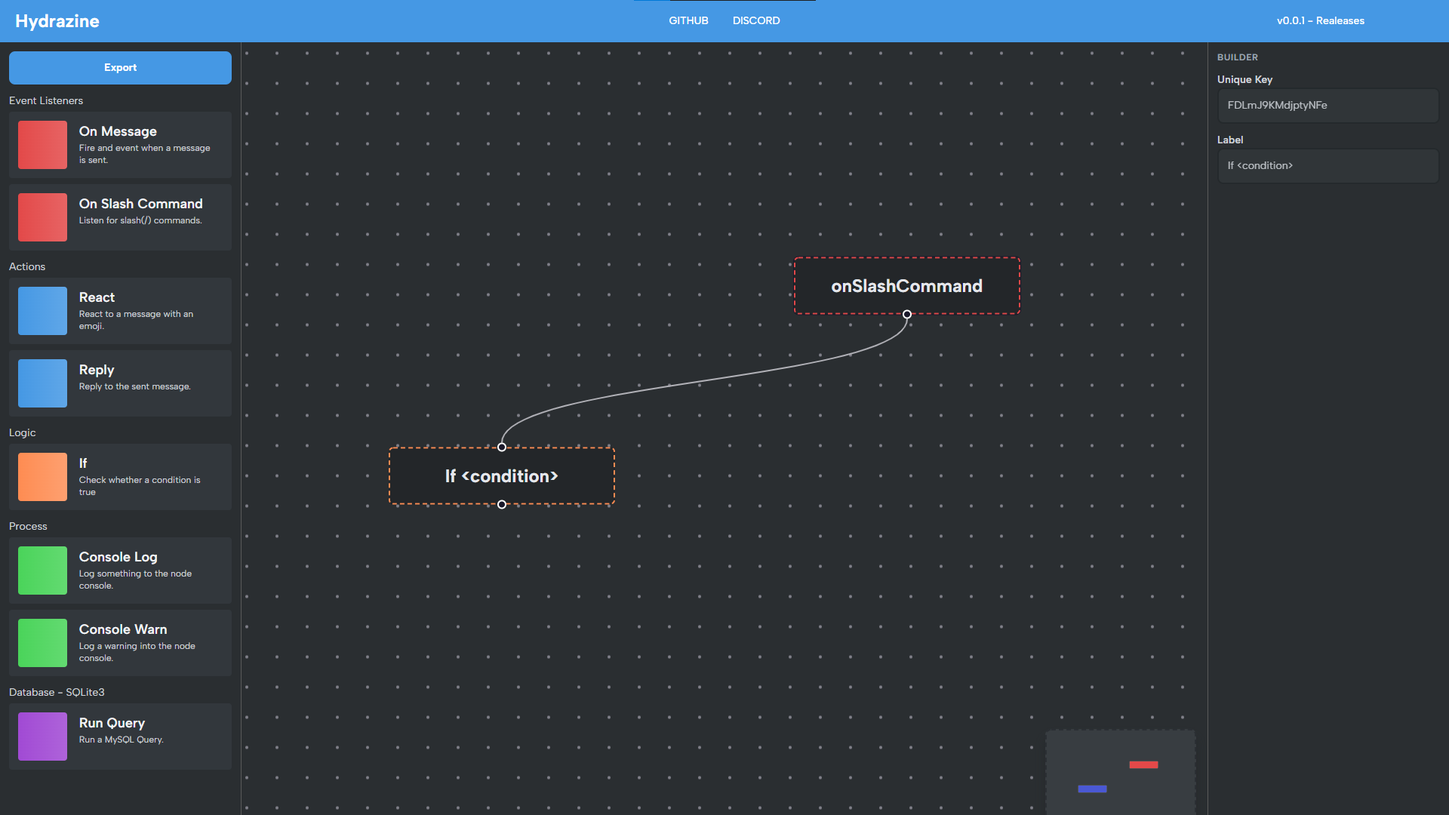
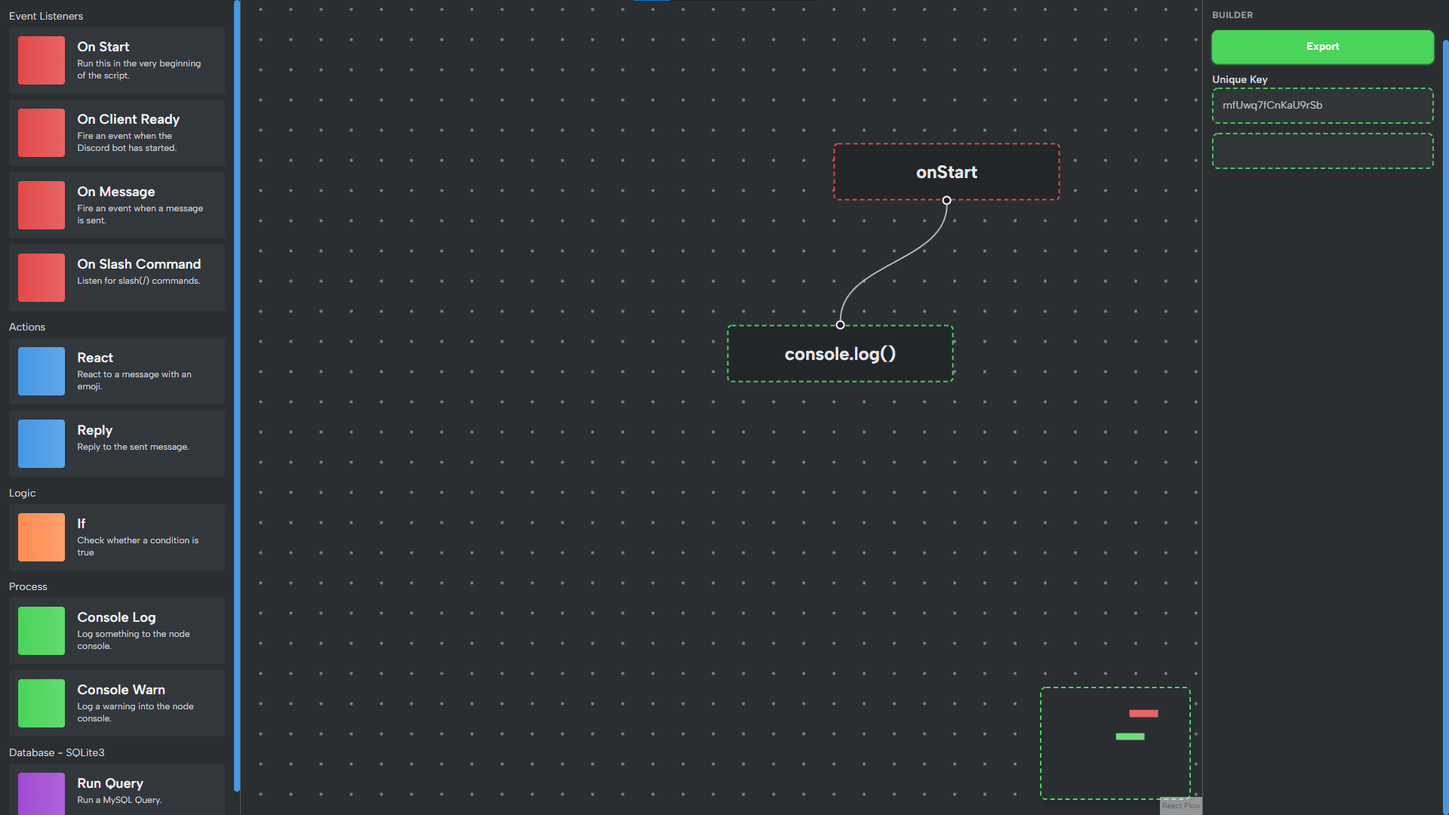
update

diff --git a/src/scss/tailwinds.scss b/src/scss/tailwinds.scss
@@ -1,1 +1,1 @@
-/*! tailwindcss v3.1.6 | MIT License | https://tailwindcss.com*/*,:after,:before{border:0 solid #e5e7eb;box-sizing:border-box}:after,:before{--tw-content:""}html{-webkit-text-size-adjust:100%;font-family:ui-sans-serif,system-ui,-apple-system,BlinkMacSystemFont,Segoe UI,Roboto,Helvetica Neue,Arial,Noto Sans,sans-serif,Apple Color Emoji,Segoe UI Emoji,Segoe UI Symbol,Noto Color Emoji;line-height:1.5;tab-size:4}body{line-height:inherit;margin:0}hr{border-top-width:1px;color:inherit;height:0}abbr:where([title]){-webkit-text-decoration:underline dotted;text-decoration:underline dotted}h1,h2,h3,h4,h5,h6{font-size:inherit;font-weight:inherit}a{color:inherit;text-decoration:inherit}b,strong{font-weight:bolder}code,kbd,pre,samp{font-family:ui-monospace,SFMono-Regular,Menlo,Monaco,Consolas,Liberation Mono,Courier New,monospace;font-size:1em}small{font-size:80%}sub,sup{font-size:75%;line-height:0;position:relative;vertical-align:initial}sub{bottom:-.25em}sup{top:-.5em}table{border-collapse:collapse;border-color:inherit;text-indent:0}button,input,optgroup,select,textarea{color:inherit;font-family:inherit;font-size:100%;font-weight:inherit;line-height:inherit;margin:0;padding:0}button,select{text-transform:none}[type=button],[type=reset],[type=submit],button{-webkit-appearance:button;background-color:initial;background-image:none}:-moz-focusring{outline:auto}:-moz-ui-invalid{box-shadow:none}progress{vertical-align:initial}::-webkit-inner-spin-button,::-webkit-outer-spin-button{height:auto}[type=search]{-webkit-appearance:textfield;outline-offset:-2px}::-webkit-search-decoration{-webkit-appearance:none}::-webkit-file-upload-button{-webkit-appearance:button;font:inherit}summary{display:list-item}blockquote,dd,dl,figure,h1,h2,h3,h4,h5,h6,hr,p,pre{margin:0}fieldset{margin:0}fieldset,legend{padding:0}menu,ol,ul{list-style:none;margin:0;padding:0}textarea{resize:vertical}input::-webkit-input-placeholder,textarea::-webkit-input-placeholder{color:#9ca3af;opacity:1}input::placeholder,textarea::placeholder{color:#9ca3af;opacity:1}[role=button],button{cursor:pointer}:disabled{cursor:default}audio,canvas,embed,iframe,img,object,svg,video{display:block;vertical-align:middle}img,video{height:auto;max-width:100%}*,:after,:before{--tw-border-spacing-x:0;--tw-border-spacing-y:0;--tw-translate-x:0;--tw-translate-y:0;--tw-rotate:0;--tw-skew-x:0;--tw-skew-y:0;--tw-scale-x:1;--tw-scale-y:1;--tw-pan-x: ;--tw-pan-y: ;--tw-pinch-zoom: ;--tw-scroll-snap-strictness:proximity;--tw-ordinal: ;--tw-slashed-zero: ;--tw-numeric-figure: ;--tw-numeric-spacing: ;--tw-numeric-fraction: ;--tw-ring-inset: ;--tw-ring-offset-width:0px;--tw-ring-offset-color:#fff;--tw-ring-color:rgba(59,130,246,.5);--tw-ring-offset-shadow:0 0 #0000;--tw-ring-shadow:0 0 #0000;--tw-shadow:0 0 #0000;--tw-shadow-colored:0 0 #0000;--tw-blur: ;--tw-brightness: ;--tw-contrast: ;--tw-grayscale: ;--tw-hue-rotate: ;--tw-invert: ;--tw-saturate: ;--tw-sepia: ;--tw-drop-shadow: ;--tw-backdrop-blur: ;--tw-backdrop-brightness: ;--tw-backdrop-contrast: ;--tw-backdrop-grayscale: ;--tw-backdrop-hue-rotate: ;--tw-backdrop-invert: ;--tw-backdrop-opacity: ;--tw-backdrop-saturate: ;--tw-backdrop-sepia: }::-webkit-backdrop{--tw-border-spacing-x:0;--tw-border-spacing-y:0;--tw-translate-x:0;--tw-translate-y:0;--tw-rotate:0;--tw-skew-x:0;--tw-skew-y:0;--tw-scale-x:1;--tw-scale-y:1;--tw-pan-x: ;--tw-pan-y: ;--tw-pinch-zoom: ;--tw-scroll-snap-strictness:proximity;--tw-ordinal: ;--tw-slashed-zero: ;--tw-numeric-figure: ;--tw-numeric-spacing: ;--tw-numeric-fraction: ;--tw-ring-inset: ;--tw-ring-offset-width:0px;--tw-ring-offset-color:#fff;--tw-ring-color:rgba(59,130,246,.5);--tw-ring-offset-shadow:0 0 #0000;--tw-ring-shadow:0 0 #0000;--tw-shadow:0 0 #0000;--tw-shadow-colored:0 0 #0000;--tw-blur: ;--tw-brightness: ;--tw-contrast: ;--tw-grayscale: ;--tw-hue-rotate: ;--tw-invert: ;--tw-saturate: ;--tw-sepia: ;--tw-drop-shadow: ;--tw-backdrop-blur: ;--tw-backdrop-brightness: ;--tw-backdrop-contrast: ;--tw-backdrop-grayscale: ;--tw-backdrop-hue-rotate: ;--tw-backdrop-invert: ;--tw-backdrop-opacity: ;--tw-backdrop-saturate: ;--tw-backdrop-sepia: }::backdrop{--tw-border-spacing-x:0;--tw-border-spacing-y:0;--tw-translate-x:0;--tw-translate-y:0;--tw-rotate:0;--tw-skew-x:0;--tw-skew-y:0;--tw-scale-x:1;--tw-scale-y:1;--tw-pan-x: ;--tw-pan-y: ;--tw-pinch-zoom: ;--tw-scroll-snap-strictness:proximity;--tw-ordinal: ;--tw-slashed-zero: ;--tw-numeric-figure: ;--tw-numeric-spacing: ;--tw-numeric-fraction: ;--tw-ring-inset: ;--tw-ring-offset-width:0px;--tw-ring-offset-color:#fff;--tw-ring-color:rgba(59,130,246,.5);--tw-ring-offset-shadow:0 0 #0000;--tw-ring-shadow:0 0 #0000;--tw-shadow:0 0 #0000;--tw-shadow-colored:0 0 #0000;--tw-blur: ;--tw-brightness: ;--tw-contrast: ;--tw-grayscale: ;--tw-hue-rotate: ;--tw-invert: ;--tw-saturate: ;--tw-sepia: ;--tw-drop-shadow: ;--tw-backdrop-blur: ;--tw-backdrop-brightness: ;--tw-backdrop-contrast: ;--tw-backdrop-grayscale: ;--tw-backdrop-hue-rotate: ;--tw-backdrop-invert: ;--tw-backdrop-opacity: ;--tw-backdrop-saturate: ;--tw-backdrop-sepia: }.container{width:100%}.\!container{width:100%!important}@media (min-width:640px){.container{max-width:640px}.\!container{max-width:640px!important}}@media (min-width:768px){.container{max-width:768px}.\!container{max-width:768px!important}}@media (min-width:1024px){.container{max-width:1024px}.\!container{max-width:1024px!important}}@media (min-width:1280px){.container{max-width:1280px}.\!container{max-width:1280px!important}}@media (min-width:1536px){.container{max-width:1536px}.\!container{max-width:1536px!important}}.col-span-3{grid-column:span 3/span 3}.col-span-2{grid-column:span 2/span 2}.col-span-8{grid-column:span 8/span 8}.col-span-10{grid-column:span 10/span 10}.mb-1{margin-bottom:.25rem}.flex{display:flex}.grid{display:grid}.h-16{height:4rem}.h-screen{height:100vh}.w-full{width:100%}.cursor-pointer{cursor:pointer}.grid-cols-4{grid-template-columns:repeat(4,minmax(0,1fr))}.grid-cols-12{grid-template-columns:repeat(12,minmax(0,1fr))}.grid-cols-1{grid-template-columns:repeat(1,minmax(0,1fr))}.flex-wrap{flex-wrap:wrap}.items-center{align-items:center}.justify-center{justify-content:center}.gap-1{gap:.25rem}.space-x-8>:not([hidden])~:not([hidden]){--tw-space-x-reverse:0;margin-left:calc(2rem*(1 - var(--tw-space-x-reverse)));margin-right:calc(2rem*var(--tw-space-x-reverse))}.space-y-3>:not([hidden])~:not([hidden]){--tw-space-y-reverse:0;margin-bottom:calc(.75rem*var(--tw-space-y-reverse));margin-top:calc(.75rem*(1 - var(--tw-space-y-reverse)))}.space-y-2>:not([hidden])~:not([hidden]){--tw-space-y-reverse:0;margin-bottom:calc(.5rem*var(--tw-space-y-reverse));margin-top:calc(.5rem*(1 - var(--tw-space-y-reverse)))}.overflow-auto{overflow:auto}.rounded{border-radius:.25rem}.rounded-lg{border-radius:.5rem}.border{border-width:1px}.border-2{border-width:2px}.border-r{border-right-width:1px}.border-l{border-left-width:1px}.border-dashed{border-style:dashed}.border-shamrock{--tw-border-opacity:1;border-color:rgb(50 194 122/var(--tw-border-opacity))}.border-cinna{--tw-border-opacity:1;border-color:rgb(227 73 73/var(--tw-border-opacity))}.border-royal{--tw-border-opacity:1;border-color:rgb(254 140 82/var(--tw-border-opacity))}.border-picton{--tw-border-opacity:1;border-color:rgb(69 152 228/var(--tw-border-opacity))}.border-emerald{--tw-border-opacity:1;border-color:rgb(74 212 90/var(--tw-border-opacity))}.border-amethyst{--tw-border-opacity:1;border-color:rgb(161 74 212/var(--tw-border-opacity))}.border-scorpion{--tw-border-opacity:1;border-color:rgb(91 91 91/var(--tw-border-opacity))}.border-shark-700{--tw-border-opacity:1;border-color:rgb(28 31 33/var(--tw-border-opacity))}.bg-shark-600{--tw-bg-opacity:1;background-color:rgb(35 38 41/var(--tw-bg-opacity))}.bg-shark{--tw-bg-opacity:1;background-color:rgb(42 46 49/var(--tw-bg-opacity))}.bg-space{--tw-bg-opacity:1;background-color:rgb(50 55 60/var(--tw-bg-opacity))}.bg-picton{--tw-bg-opacity:1;background-color:rgb(69 152 228/var(--tw-bg-opacity))}.bg-shark-500{--tw-bg-opacity:1;background-color:rgb(42 46 49/var(--tw-bg-opacity))}.bg-shark-400{--tw-bg-opacity:1;background-color:rgb(49 54 57/var(--tw-bg-opacity))}.bg-shamrock{--tw-bg-opacity:1;background-color:rgb(50 194 122/var(--tw-bg-opacity))}.bg-cinna{--tw-bg-opacity:1;background-color:rgb(227 73 73/var(--tw-bg-opacity))}.bg-royal{--tw-bg-opacity:1;background-color:rgb(254 140 82/var(--tw-bg-opacity))}.bg-emerald{--tw-bg-opacity:1;background-color:rgb(74 212 90/var(--tw-bg-opacity))}.bg-amethyst{--tw-bg-opacity:1;background-color:rgb(161 74 212/var(--tw-bg-opacity))}.bg-gradient-to-r{background-image:linear-gradient(to right,var(--tw-gradient-stops))}.from-shamrock-500{--tw-gradient-from:#32c27a;--tw-gradient-to:rgba(50,194,122,0);--tw-gradient-stops:var(--tw-gradient-from),var(--tw-gradient-to)}.from-cinna-500{--tw-gradient-from:#e34949;--tw-gradient-to:rgba(227,73,73,0);--tw-gradient-stops:var(--tw-gradient-from),var(--tw-gradient-to)}.from-royal-500{--tw-gradient-from:#fe8c52;--tw-gradient-to:rgba(254,140,82,0);--tw-gradient-stops:var(--tw-gradient-from),var(--tw-gradient-to)}.from-picton-500{--tw-gradient-from:#4598e4;--tw-gradient-to:rgba(69,152,228,0);--tw-gradient-stops:var(--tw-gradient-from),var(--tw-gradient-to)}.from-emerald-500{--tw-gradient-from:#4ad45a;--tw-gradient-to:rgba(74,212,90,0);--tw-gradient-stops:var(--tw-gradient-from),var(--tw-gradient-to)}.from-amethyst-500{--tw-gradient-from:#a14ad4;--tw-gradient-to:rgba(161,74,212,0);--tw-gradient-stops:var(--tw-gradient-from),var(--tw-gradient-to)}.to-shamrock-300{--tw-gradient-to:#44cf89}.to-cinna-300{--tw-gradient-to:#e76464}.to-royal-300{--tw-gradient-to:#fea070}.to-picton-300{--tw-gradient-to:#60a7e8}.to-emerald-300{--tw-gradient-to:#63da71}.to-amethyst-300{--tw-gradient-to:#ae63da}.p-3{padding:.75rem}.px-3{padding-left:.75rem;padding-right:.75rem}.px-2{padding-left:.5rem;padding-right:.5rem}.text-center{text-align:center}.text-xs{font-size:.75rem;line-height:1rem}.text-sm{font-size:.875rem;line-height:1.25rem}.text-lg{font-size:1.125rem;line-height:1.75rem}.text-2xl{font-size:1.5rem;line-height:2rem}.font-bold{font-weight:700}.font-semibold{font-weight:600}.font-medium{font-weight:500}.uppercase{text-transform:uppercase}.tracking-wider{letter-spacing:.05em}.text-gray-200{--tw-text-opacity:1;color:rgb(229 231 235/var(--tw-text-opacity))}.text-gray-300{--tw-text-opacity:1;color:rgb(209 213 219/var(--tw-text-opacity))}.text-gray-100{--tw-text-opacity:1;color:rgb(243 244 246/var(--tw-text-opacity))}.text-foam-300,.text-white{--tw-text-opacity:1;color:rgb(255 255 255/var(--tw-text-opacity))}.text-gray-400{--tw-text-opacity:1;color:rgb(156 163 175/var(--tw-text-opacity))}.opacity-90{opacity:.9}.shadow-sm{--tw-shadow:0 1px 2px 0 rgba(0,0,0,.05);--tw-shadow-colored:0 1px 2px 0 var(--tw-shadow-color)}.shadow-lg,.shadow-sm{box-shadow:var(--tw-ring-offset-shadow,0 0 #0000),var(--tw-ring-shadow,0 0 #0000),var(--tw-shadow)}.shadow-lg{--tw-shadow:0 10px 15px -3px rgba(0,0,0,.1),0 4px 6px -4px rgba(0,0,0,.1);--tw-shadow-colored:0 10px 15px -3px var(--tw-shadow-color),0 4px 6px -4px var(--tw-shadow-color)}.shadow{--tw-shadow:0 1px 3px 0 rgba(0,0,0,.1),0 1px 2px -1px rgba(0,0,0,.1);--tw-shadow-colored:0 1px 3px 0 var(--tw-shadow-color),0 1px 2px -1px var(--tw-shadow-color);box-shadow:var(--tw-ring-offset-shadow,0 0 #0000),var(--tw-ring-shadow,0 0 #0000),var(--tw-shadow)}.shadow-shark-600{--tw-shadow-color:#232629;--tw-shadow:var(--tw-shadow-colored)}.shadow-picton,.shadow-picton-500{--tw-shadow-color:#4598e4;--tw-shadow:var(--tw-shadow-colored)}.shadow-shamrock{--tw-shadow-color:#32c27a;--tw-shadow:var(--tw-shadow-colored)}.shadow-cinna{--tw-shadow-color:#e34949;--tw-shadow:var(--tw-shadow-colored)}.shadow-royal{--tw-shadow-color:#fe8c52;--tw-shadow:var(--tw-shadow-colored)}.shadow-emerald{--tw-shadow-color:#4ad45a;--tw-shadow:var(--tw-shadow-colored)}.shadow-amethyst{--tw-shadow-color:#a14ad4;--tw-shadow:var(--tw-shadow-colored)}.duration-300{transition-duration:.3s}.hover\:scale-105:hover{--tw-scale-x:1.05;--tw-scale-y:1.05;-webkit-transform:translate(var(--tw-translate-x),var(--tw-translate-y)) rotate(var(--tw-rotate)) skewX(var(--tw-skew-x)) skewY(var(--tw-skew-y)) scaleX(var(--tw-scale-x)) scaleY(var(--tw-scale-y));transform:translate(var(--tw-translate-x),var(--tw-translate-y)) rotate(var(--tw-rotate)) skewX(var(--tw-skew-x)) skewY(var(--tw-skew-y)) scaleX(var(--tw-scale-x)) scaleY(var(--tw-scale-y))}
+/*! tailwindcss v3.1.6 | MIT License | https://tailwindcss.com*/*,:after,:before{border:0 solid #e5e7eb;box-sizing:border-box}:after,:before{--tw-content:""}html{-webkit-text-size-adjust:100%;font-family:ui-sans-serif,system-ui,-apple-system,BlinkMacSystemFont,Segoe UI,Roboto,Helvetica Neue,Arial,Noto Sans,sans-serif,Apple Color Emoji,Segoe UI Emoji,Segoe UI Symbol,Noto Color Emoji;line-height:1.5;tab-size:4}body{line-height:inherit;margin:0}hr{border-top-width:1px;color:inherit;height:0}abbr:where([title]){-webkit-text-decoration:underline dotted;text-decoration:underline dotted}h1,h2,h3,h4,h5,h6{font-size:inherit;font-weight:inherit}a{color:inherit;text-decoration:inherit}b,strong{font-weight:bolder}code,kbd,pre,samp{font-family:ui-monospace,SFMono-Regular,Menlo,Monaco,Consolas,Liberation Mono,Courier New,monospace;font-size:1em}small{font-size:80%}sub,sup{font-size:75%;line-height:0;position:relative;vertical-align:initial}sub{bottom:-.25em}sup{top:-.5em}table{border-collapse:collapse;border-color:inherit;text-indent:0}button,input,optgroup,select,textarea{color:inherit;font-family:inherit;font-size:100%;font-weight:inherit;line-height:inherit;margin:0;padding:0}button,select{text-transform:none}[type=button],[type=reset],[type=submit],button{-webkit-appearance:button;background-color:initial;background-image:none}:-moz-focusring{outline:auto}:-moz-ui-invalid{box-shadow:none}progress{vertical-align:initial}::-webkit-inner-spin-button,::-webkit-outer-spin-button{height:auto}[type=search]{-webkit-appearance:textfield;outline-offset:-2px}::-webkit-search-decoration{-webkit-appearance:none}::-webkit-file-upload-button{-webkit-appearance:button;font:inherit}summary{display:list-item}blockquote,dd,dl,figure,h1,h2,h3,h4,h5,h6,hr,p,pre{margin:0}fieldset{margin:0}fieldset,legend{padding:0}menu,ol,ul{list-style:none;margin:0;padding:0}textarea{resize:vertical}input::-webkit-input-placeholder,textarea::-webkit-input-placeholder{color:#9ca3af;opacity:1}input::placeholder,textarea::placeholder{color:#9ca3af;opacity:1}[role=button],button{cursor:pointer}:disabled{cursor:default}audio,canvas,embed,iframe,img,object,svg,video{display:block;vertical-align:middle}img,video{height:auto;max-width:100%}*,:after,:before{--tw-border-spacing-x:0;--tw-border-spacing-y:0;--tw-translate-x:0;--tw-translate-y:0;--tw-rotate:0;--tw-skew-x:0;--tw-skew-y:0;--tw-scale-x:1;--tw-scale-y:1;--tw-pan-x: ;--tw-pan-y: ;--tw-pinch-zoom: ;--tw-scroll-snap-strictness:proximity;--tw-ordinal: ;--tw-slashed-zero: ;--tw-numeric-figure: ;--tw-numeric-spacing: ;--tw-numeric-fraction: ;--tw-ring-inset: ;--tw-ring-offset-width:0px;--tw-ring-offset-color:#fff;--tw-ring-color:rgba(59,130,246,.5);--tw-ring-offset-shadow:0 0 #0000;--tw-ring-shadow:0 0 #0000;--tw-shadow:0 0 #0000;--tw-shadow-colored:0 0 #0000;--tw-blur: ;--tw-brightness: ;--tw-contrast: ;--tw-grayscale: ;--tw-hue-rotate: ;--tw-invert: ;--tw-saturate: ;--tw-sepia: ;--tw-drop-shadow: ;--tw-backdrop-blur: ;--tw-backdrop-brightness: ;--tw-backdrop-contrast: ;--tw-backdrop-grayscale: ;--tw-backdrop-hue-rotate: ;--tw-backdrop-invert: ;--tw-backdrop-opacity: ;--tw-backdrop-saturate: ;--tw-backdrop-sepia: }::-webkit-backdrop{--tw-border-spacing-x:0;--tw-border-spacing-y:0;--tw-translate-x:0;--tw-translate-y:0;--tw-rotate:0;--tw-skew-x:0;--tw-skew-y:0;--tw-scale-x:1;--tw-scale-y:1;--tw-pan-x: ;--tw-pan-y: ;--tw-pinch-zoom: ;--tw-scroll-snap-strictness:proximity;--tw-ordinal: ;--tw-slashed-zero: ;--tw-numeric-figure: ;--tw-numeric-spacing: ;--tw-numeric-fraction: ;--tw-ring-inset: ;--tw-ring-offset-width:0px;--tw-ring-offset-color:#fff;--tw-ring-color:rgba(59,130,246,.5);--tw-ring-offset-shadow:0 0 #0000;--tw-ring-shadow:0 0 #0000;--tw-shadow:0 0 #0000;--tw-shadow-colored:0 0 #0000;--tw-blur: ;--tw-brightness: ;--tw-contrast: ;--tw-grayscale: ;--tw-hue-rotate: ;--tw-invert: ;--tw-saturate: ;--tw-sepia: ;--tw-drop-shadow: ;--tw-backdrop-blur: ;--tw-backdrop-brightness: ;--tw-backdrop-contrast: ;--tw-backdrop-grayscale: ;--tw-backdrop-hue-rotate: ;--tw-backdrop-invert: ;--tw-backdrop-opacity: ;--tw-backdrop-saturate: ;--tw-backdrop-sepia: }::backdrop{--tw-border-spacing-x:0;--tw-border-spacing-y:0;--tw-translate-x:0;--tw-translate-y:0;--tw-rotate:0;--tw-skew-x:0;--tw-skew-y:0;--tw-scale-x:1;--tw-scale-y:1;--tw-pan-x: ;--tw-pan-y: ;--tw-pinch-zoom: ;--tw-scroll-snap-strictness:proximity;--tw-ordinal: ;--tw-slashed-zero: ;--tw-numeric-figure: ;--tw-numeric-spacing: ;--tw-numeric-fraction: ;--tw-ring-inset: ;--tw-ring-offset-width:0px;--tw-ring-offset-color:#fff;--tw-ring-color:rgba(59,130,246,.5);--tw-ring-offset-shadow:0 0 #0000;--tw-ring-shadow:0 0 #0000;--tw-shadow:0 0 #0000;--tw-shadow-colored:0 0 #0000;--tw-blur: ;--tw-brightness: ;--tw-contrast: ;--tw-grayscale: ;--tw-hue-rotate: ;--tw-invert: ;--tw-saturate: ;--tw-sepia: ;--tw-drop-shadow: ;--tw-backdrop-blur: ;--tw-backdrop-brightness: ;--tw-backdrop-contrast: ;--tw-backdrop-grayscale: ;--tw-backdrop-hue-rotate: ;--tw-backdrop-invert: ;--tw-backdrop-opacity: ;--tw-backdrop-saturate: ;--tw-backdrop-sepia: }.container{width:100%}.\!container{width:100%!important}@media (min-width:640px){.container{max-width:640px}.\!container{max-width:640px!important}}@media (min-width:768px){.container{max-width:768px}.\!container{max-width:768px!important}}@media (min-width:1024px){.container{max-width:1024px}.\!container{max-width:1024px!important}}@media (min-width:1280px){.container{max-width:1280px}.\!container{max-width:1280px!important}}@media (min-width:1536px){.container{max-width:1536px}.\!container{max-width:1536px!important}}.col-span-3{grid-column:span 3/span 3}.col-span-2{grid-column:span 2/span 2}.col-span-8{grid-column:span 8/span 8}.col-span-10{grid-column:span 10/span 10}.mb-1{margin-bottom:.25rem}.flex{display:flex}.grid{display:grid}.h-16{height:4rem}.h-screen{height:100vh}.w-full{width:100%}.cursor-pointer{cursor:pointer}.grid-cols-4{grid-template-columns:repeat(4,minmax(0,1fr))}.grid-cols-12{grid-template-columns:repeat(12,minmax(0,1fr))}.grid-cols-1{grid-template-columns:repeat(1,minmax(0,1fr))}.flex-wrap{flex-wrap:wrap}.items-center{align-items:center}.justify-center{justify-content:center}.gap-1{gap:.25rem}.space-x-8>:not([hidden])~:not([hidden]){--tw-space-x-reverse:0;margin-left:calc(2rem*(1 - var(--tw-space-x-reverse)));margin-right:calc(2rem*var(--tw-space-x-reverse))}.space-y-3>:not([hidden])~:not([hidden]){--tw-space-y-reverse:0;margin-bottom:calc(.75rem*var(--tw-space-y-reverse));margin-top:calc(.75rem*(1 - var(--tw-space-y-reverse)))}.space-y-2>:not([hidden])~:not([hidden]){--tw-space-y-reverse:0;margin-bottom:calc(.5rem*var(--tw-space-y-reverse));margin-top:calc(.5rem*(1 - var(--tw-space-y-reverse)))}.space-y-1>:not([hidden])~:not([hidden]){--tw-space-y-reverse:0;margin-bottom:calc(.25rem*var(--tw-space-y-reverse));margin-top:calc(.25rem*(1 - var(--tw-space-y-reverse)))}.overflow-auto{overflow:auto}.rounded{border-radius:.25rem}.rounded-lg{border-radius:.5rem}.border{border-width:1px}.border-2{border-width:2px}.border-r{border-right-width:1px}.border-l{border-left-width:1px}.border-dashed{border-style:dashed}.border-shamrock{--tw-border-opacity:1;border-color:rgb(50 194 122/var(--tw-border-opacity))}.border-cinna{--tw-border-opacity:1;border-color:rgb(227 73 73/var(--tw-border-opacity))}.border-royal{--tw-border-opacity:1;border-color:rgb(254 140 82/var(--tw-border-opacity))}.border-picton{--tw-border-opacity:1;border-color:rgb(69 152 228/var(--tw-border-opacity))}.border-emerald{--tw-border-opacity:1;border-color:rgb(74 212 90/var(--tw-border-opacity))}.border-amethyst{--tw-border-opacity:1;border-color:rgb(161 74 212/var(--tw-border-opacity))}.border-scorpion{--tw-border-opacity:1;border-color:rgb(91 91 91/var(--tw-border-opacity))}.border-shark-700{--tw-border-opacity:1;border-color:rgb(28 31 33/var(--tw-border-opacity))}.bg-shark-600{--tw-bg-opacity:1;background-color:rgb(35 38 41/var(--tw-bg-opacity))}.bg-shark{--tw-bg-opacity:1;background-color:rgb(42 46 49/var(--tw-bg-opacity))}.bg-space{--tw-bg-opacity:1;background-color:rgb(50 55 60/var(--tw-bg-opacity))}.bg-picton{--tw-bg-opacity:1;background-color:rgb(69 152 228/var(--tw-bg-opacity))}.bg-shark-500{--tw-bg-opacity:1;background-color:rgb(42 46 49/var(--tw-bg-opacity))}.bg-shark-400{--tw-bg-opacity:1;background-color:rgb(49 54 57/var(--tw-bg-opacity))}.bg-shamrock{--tw-bg-opacity:1;background-color:rgb(50 194 122/var(--tw-bg-opacity))}.bg-cinna{--tw-bg-opacity:1;background-color:rgb(227 73 73/var(--tw-bg-opacity))}.bg-royal{--tw-bg-opacity:1;background-color:rgb(254 140 82/var(--tw-bg-opacity))}.bg-emerald{--tw-bg-opacity:1;background-color:rgb(74 212 90/var(--tw-bg-opacity))}.bg-amethyst{--tw-bg-opacity:1;background-color:rgb(161 74 212/var(--tw-bg-opacity))}.bg-gradient-to-r{background-image:linear-gradient(to right,var(--tw-gradient-stops))}.from-shamrock-500{--tw-gradient-from:#32c27a;--tw-gradient-to:rgba(50,194,122,0);--tw-gradient-stops:var(--tw-gradient-from),var(--tw-gradient-to)}.from-cinna-500{--tw-gradient-from:#e34949;--tw-gradient-to:rgba(227,73,73,0);--tw-gradient-stops:var(--tw-gradient-from),var(--tw-gradient-to)}.from-royal-500{--tw-gradient-from:#fe8c52;--tw-gradient-to:rgba(254,140,82,0);--tw-gradient-stops:var(--tw-gradient-from),var(--tw-gradient-to)}.from-picton-500{--tw-gradient-from:#4598e4;--tw-gradient-to:rgba(69,152,228,0);--tw-gradient-stops:var(--tw-gradient-from),var(--tw-gradient-to)}.from-emerald-500{--tw-gradient-from:#4ad45a;--tw-gradient-to:rgba(74,212,90,0);--tw-gradient-stops:var(--tw-gradient-from),var(--tw-gradient-to)}.from-amethyst-500{--tw-gradient-from:#a14ad4;--tw-gradient-to:rgba(161,74,212,0);--tw-gradient-stops:var(--tw-gradient-from),var(--tw-gradient-to)}.to-shamrock-300{--tw-gradient-to:#44cf89}.to-cinna-300{--tw-gradient-to:#e76464}.to-royal-300{--tw-gradient-to:#fea070}.to-picton-300{--tw-gradient-to:#60a7e8}.to-emerald-300{--tw-gradient-to:#63da71}.to-amethyst-300{--tw-gradient-to:#ae63da}.p-3{padding:.75rem}.px-3{padding-left:.75rem;padding-right:.75rem}.px-2{padding-left:.5rem;padding-right:.5rem}.text-center{text-align:center}.text-xs{font-size:.75rem;line-height:1rem}.text-sm{font-size:.875rem;line-height:1.25rem}.text-lg{font-size:1.125rem;line-height:1.75rem}.text-2xl{font-size:1.5rem;line-height:2rem}.font-bold{font-weight:700}.font-semibold{font-weight:600}.font-medium{font-weight:500}.uppercase{text-transform:uppercase}.tracking-wider{letter-spacing:.05em}.text-gray-200{--tw-text-opacity:1;color:rgb(229 231 235/var(--tw-text-opacity))}.text-gray-300{--tw-text-opacity:1;color:rgb(209 213 219/var(--tw-text-opacity))}.text-gray-100{--tw-text-opacity:1;color:rgb(243 244 246/var(--tw-text-opacity))}.text-foam-300,.text-white{--tw-text-opacity:1;color:rgb(255 255 255/var(--tw-text-opacity))}.text-gray-400{--tw-text-opacity:1;color:rgb(156 163 175/var(--tw-text-opacity))}.opacity-90{opacity:.9}.shadow-sm{--tw-shadow:0 1px 2px 0 rgba(0,0,0,.05);--tw-shadow-colored:0 1px 2px 0 var(--tw-shadow-color)}.shadow-lg,.shadow-sm{box-shadow:var(--tw-ring-offset-shadow,0 0 #0000),var(--tw-ring-shadow,0 0 #0000),var(--tw-shadow)}.shadow-lg{--tw-shadow:0 10px 15px -3px rgba(0,0,0,.1),0 4px 6px -4px rgba(0,0,0,.1);--tw-shadow-colored:0 10px 15px -3px var(--tw-shadow-color),0 4px 6px -4px var(--tw-shadow-color)}.shadow{--tw-shadow:0 1px 3px 0 rgba(0,0,0,.1),0 1px 2px -1px rgba(0,0,0,.1);--tw-shadow-colored:0 1px 3px 0 var(--tw-shadow-color),0 1px 2px -1px var(--tw-shadow-color);box-shadow:var(--tw-ring-offset-shadow,0 0 #0000),var(--tw-ring-shadow,0 0 #0000),var(--tw-shadow)}.shadow-shark-600{--tw-shadow-color:#232629;--tw-shadow:var(--tw-shadow-colored)}.shadow-picton,.shadow-picton-500{--tw-shadow-color:#4598e4;--tw-shadow:var(--tw-shadow-colored)}.shadow-shamrock{--tw-shadow-color:#32c27a;--tw-shadow:var(--tw-shadow-colored)}.shadow-cinna{--tw-shadow-color:#e34949;--tw-shadow:var(--tw-shadow-colored)}.shadow-royal{--tw-shadow-color:#fe8c52;--tw-shadow:var(--tw-shadow-colored)}.shadow-emerald{--tw-shadow-color:#4ad45a;--tw-shadow:var(--tw-shadow-colored)}.shadow-amethyst{--tw-shadow-color:#a14ad4;--tw-shadow:var(--tw-shadow-colored)}.duration-300{transition-duration:.3s}.hover\:scale-105:hover{--tw-scale-x:1.05;--tw-scale-y:1.05;-webkit-transform:translate(var(--tw-translate-x),var(--tw-translate-y)) rotate(var(--tw-rotate)) skewX(var(--tw-skew-x)) skewY(var(--tw-skew-y)) scaleX(var(--tw-scale-x)) scaleY(var(--tw-scale-y));transform:translate(var(--tw-translate-x),var(--tw-translate-y)) rotate(var(--tw-rotate)) skewX(var(--tw-skew-x)) skewY(var(--tw-skew-y)) scaleX(var(--tw-scale-x)) scaleY(var(--tw-scale-y))}

diff --git a/src/page/Builder.js b/src/page/Builder.js
@@ -54,28 +54,19 @@ function Flow() {
     return `rgba(${r}, ${g}, ${b}, ${alpha})`;
   }
 
-  function getNodeIndexById(id) {
-    for (let i = 0; i < nodes.length; i++) {
-      const node = nodes[i];
-      if (node.id === id) {
-        return i;
-      }
-    }
-  }
-
-  function FireRightPanel(node) {
-    let data = getNodeById(node.target.dataset.id);
-    setRightUniqueId(data.id);
-  }
+  // function getNodeIndexById(id) {
+  //   for (let i = 0; i < nodes.length; i++) {
+  //     const node = nodes[i];
+  //     if (node.id === id) {
+  //       return i;
+  //     }
+  //   }
+  // }
 
   const onNodesChange = useCallback(
     (changes) => setNodes((nds) => applyNodeChanges(changes, nds)),
     [setNodes]
   );
-
-  const onNodesClick = (node) => {
-    FireRightPanel(node);
-  };
 
   const onEdgesChange = useCallback(
     (changes) => setEdges((eds) => applyEdgeChanges(changes, eds)),
@@ -114,6 +105,61 @@ function Flow() {
     }
   };
 
+  const [fields, setFields] = useState([]);
+  function buildFields() {
+    let node = getNodeById(rightUniqueId);
+
+    let fields = node?.$cinfo?.$fields || [];
+    let final = [];
+
+    for (let i = 0; i < fields.length; i++) {
+      const field = fields[i];
+      final.push(
+        <div>
+          <h3 className="font-semibold">{field.$name}</h3>
+          <input
+            onChange={(e) => {
+              const node = getNodeById(rightUniqueId);
+              const newNodes = [...nodes];
+              const newNode = node;
+              const final = [];
+              const ids = [];
+
+              //       newNode.data[field.$name] = e.target.value; // Set the node's innerText to label value
+              newNodes.push(newNode);
+
+              for (let i = newNodes.length - 1; i >= 0; i--) {
+                const node = newNodes[i];
+                if (!ids.includes(node.id)) {
+                  final.push(node);
+                  ids.push(node.id);
+                }
+              }
+
+              setNodes(final);
+            }}
+            className={`p-3 opacity-90 bg-shark-400 border-dashed border-${node.color} shadow-sm border-2 rounded-lg w-full`}
+            value={field.$value}
+          ></input>
+        </div>
+      );
+    }
+
+    setFields(final);
+    return final;
+  }
+
+  console.log(rightNode);
+
+  const onNodesClick = (node) => {
+    let data = getNodeById(node.target.dataset.id);
+
+    setRightUniqueId(data.id);
+    buildFields();
+  };
+
+  console.log(fields);
+
   return (
     <>
       <Header />
@@ -135,6 +181,18 @@ function Flow() {
                         label: "onStart",
                       },
                       $cinfo: {
+                        $fields: [
+                          {
+                            $type: "string",
+                            $name: "value",
+                            $value: null,
+                          },
+                          {
+                            $type: "string",
+                            $name: "code",
+                            $value: "console.log(1)",
+                          },
+                        ],
                         $action: "on_start",
                       },
                       position: { x: 250, y: 250 },
@@ -338,28 +396,25 @@ function Flow() {
             <div className="w-full flex flex-wrap">
               <div className="w-full grid-cols-1 grid p-3 border-l  flex-wrap border-scorpion">
                 <div className="space-y-3">
+                  <div>
+                    <h3 className="text-xs font-bold uppercase text-gray-400 tracking-wider">
+                      BUILDER
+                    </h3>
+                  </div>
                   <section className="">
-                    <div className="space-y-2 ">
+                    <div className="space-y-2">
                       <button
                         onClick={exportCode}
                         className={`shadow shadow-${
                           rightNode.color || "shark-400"
                         } bg-${
                           rightNode.color || "shark-400"
-                        } rounded-lg font-bold w-full p-3  text-white`}
+                        } rounded-lg font-bold w-full p-3 text-white`}
                       >
                         Export
                       </button>
                     </div>
                   </section>
-                  <div>
-                    <h3 className="text-xs font-bold uppercase text-gray-400 tracking-wider">
-                      BUILDER
-                    </h3>
-                    <h1 className="text-lg font-bold text-gray-100 tracking-wider">
-                      {rightNode.data.label}
-                    </h1>
-                  </div>
                   {rightUniqueId ? (
                     <div>
                       <h3 className="font-semibold">Unique Key</h3>
@@ -372,41 +427,9 @@ function Flow() {
                   ) : (
                     false
                   )}
-                  {rightNode.data.label ? (
-                    <div>
-                      <h3 className="font-semibold">Label</h3>
-                      <input
-                        onChange={(e) => {
-                          const node = getNodeById(rightUniqueId);
-                          const newNode = node;
-
-                          const nodeIndex = getNodeIndexById(rightUniqueId);
-                          const newNodes = [...nodes];
-
-                          newNode.data.label = e.target.value;
-                          newNodes.push({
-                            ...newNode,
-                          });
-
-                          const final = [];
-                          const ids = [];
-                          for (let i = 0; i < newNodes.length; i++) {
-                            const node = newNodes[i];
-                            if (!ids.includes(node.id)) {
-                              final.push(node);
-                              ids.push(node.id);
-                            }
-                          }
-
-                          setNodes(final);
-                        }}
-                        className={`p-3 opacity-90 bg-shark-400 border-dashed border-${rightNode.color} shadow-sm border-2 rounded-lg w-full`}
-                        value={rightNode.data.label}
-                      ></input>
-                    </div>
-                  ) : (
-                    false
-                  )}
+                  {fields.map((item, index) => {
+                    return <div key={index}>{item}</div>;
+                  })}
                 </div>
               </div>
             </div>

diff --git a/src/module/main.js b/src/module/main.js
@@ -1,5 +1,3 @@
-var SHA256 = require("crypto-js/sha256");
-
 class Master {
   randomString(strLength, charSet) {
     var result = [];
